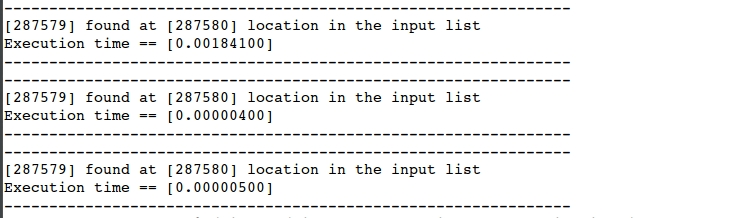
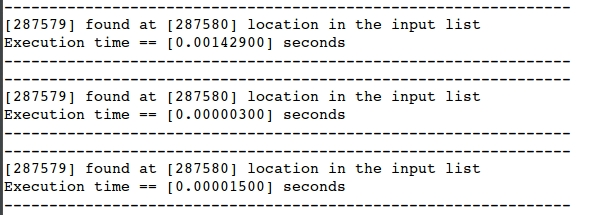
Adding seconds in output

diff --git a/Chapter_3_Algorithms/3.1_Algorithms/Exercises/repo/source/solution_27.cpp b/Chapter_3_Algorithms/3.1_Algorithms/Exercises/repo/source/solution_27.cpp
@@ -91,21 +91,21 @@ void test_searches() {
     std::clock_t start = clock();
     printf("---------------------------------------------------------------\n");
     printf("[%d] found at [%d] location in the input list\n", x, linear_search(list, x));
-    printf("Execution time == [%.8f]\n", (clock() - start) / static_cast<double>(CLOCKS_PER_SEC));
+    printf("Execution time == [%.8f] seconds\n", (clock() - start) / static_cast<double>(CLOCKS_PER_SEC));
     printf("---------------------------------------------------------------\n");
 
     // Algorithm 2 (Binary Search)
     start = clock();
     printf("---------------------------------------------------------------\n");
     printf("[%d] found at [%d] location in the input list\n", x, binary_search(list, x));
-    printf("Execution time == [%.8f]\n", (clock() - start) / static_cast<double>(CLOCKS_PER_SEC));
+    printf("Execution time == [%.8f] seconds\n", (clock() - start) / static_cast<double>(CLOCKS_PER_SEC));
     printf("---------------------------------------------------------------\n");
 
     // Algorithm 2 (Binary Search)
     start = clock();
     printf("---------------------------------------------------------------\n");
     printf("[%d] found at [%d] location in the input list\n", x, ternary_search(list, x));
-    printf("Execution time == [%.8f]\n", (clock() - start) / static_cast<double>(CLOCKS_PER_SEC));
+    printf("Execution time == [%.8f] seconds\n", (clock() - start) / static_cast<double>(CLOCKS_PER_SEC));
     printf("---------------------------------------------------------------\n");            
 }
 
